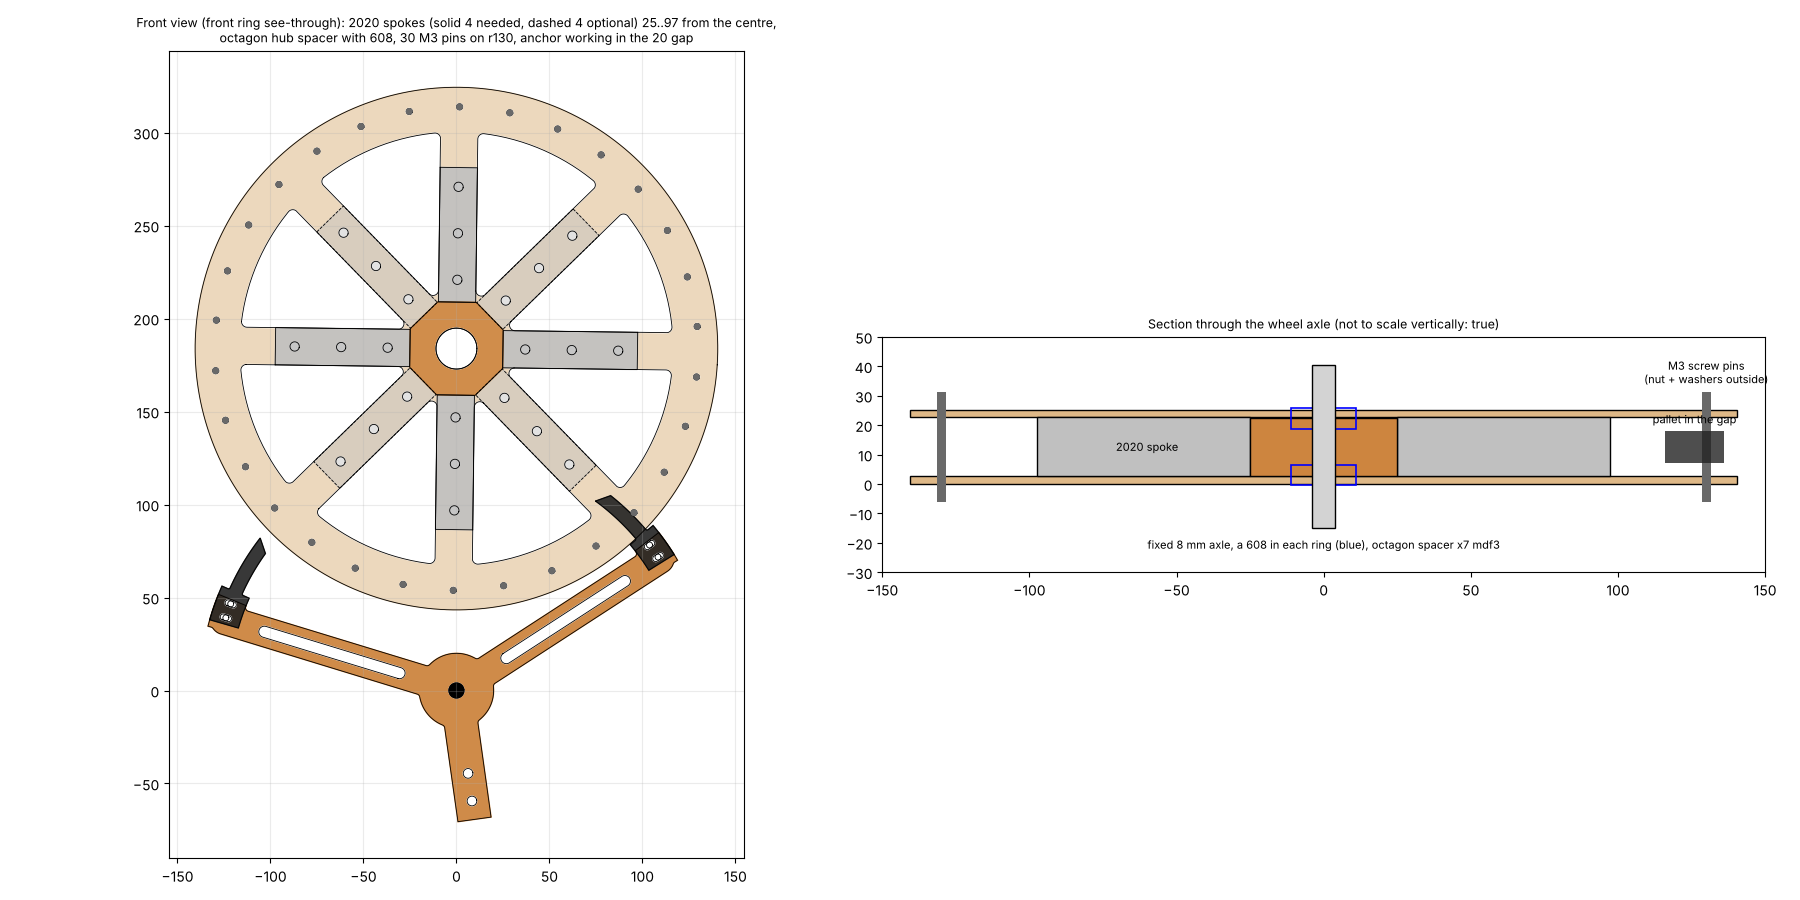
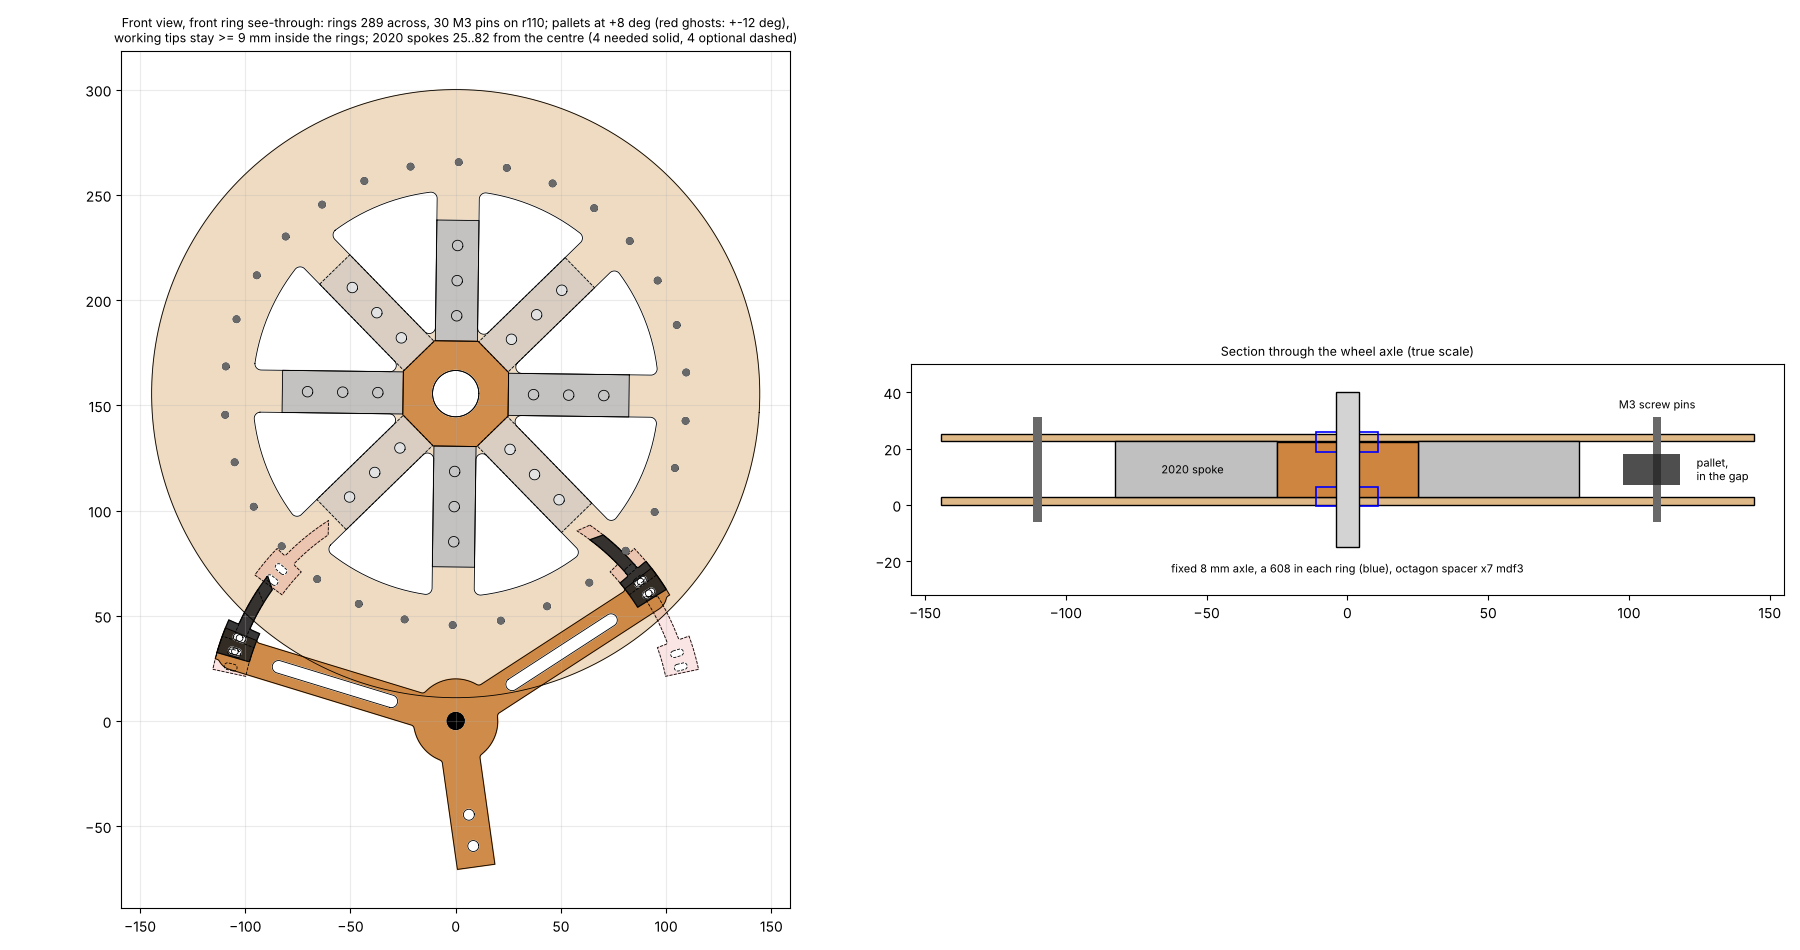
WIP pin-wheel escapement: rings out to 289 (sheet limit), pins in to r110 so the pallet tips stay inside the rings at +-12 deg
Claude-Session: https://claude.ai/code/session_01LQy87QnU21cWEAk5CN6jGY

diff --git a/marbles/clock/escapement_pin.py b/marbles/clock/escapement_pin.py
@@ -35,7 +35,7 @@ sys.path.insert(0, str(HERE.parent))
 from laser_parts import gcode  # noqa: E402
 
 N = 30                 # pins: 1 rev/min on a seconds pendulum
-R = 130.0              # pin-centre radius (wheel ~280 across: fits a 292 sheet)
+R = 110.0              # pin-centre radius: in from the rim, so the pallet tips stay >= 9 inside the rings even at +-12 deg
 PIN_D = 3.0            # pins = M3 screws spanning the two wheel rings (nut + washers), the pallets work on the shank
 PIN_HOLE = 3.3         # M3 clearance in the rings
 SPAN = 7.5             # anchor spans 7.5 pins (90 deg): the classic Graham proportion
@@ -44,14 +44,15 @@ DROP = 1.5             # free wheel degrees per beat after impulse
 KAPPA = 1.0            # lock depth (anchor degrees) a pallet already has when the other drops
 AMP = 8.0              # design swing, deg each side (the check also runs smaller and larger)
 ARM_W = 16.0           # anchor arm width (soft wood: wide)
-RIM = 9.0              # wheel rim wood outside the pin circle
+RING_R = 144.5         # ring outer radius: 289 across, the most a 292 sheet takes in one piece
+RIM = RING_R - R - 1.5  # ring wood outside the pin circle (for a 3 mm pin)
 RIM_IN = 12.0          # rim band inside the pin circle
 SPOKES = 8            # wood spokes over the 2020 beam spokes (4 at 0/90/180/270; the 45s are optional beams)
 SPOKE_W = 20.0         # = the 2020
 GAP = 20.0             # the two rings sit on opposite faces of the 2020 spokes: the anchor works in this gap
 BRG_D = 22.0           # 608 skate bearing seat (one in each ring, on a fixed 8 mm axle)
 HUB_A = 25.0           # hub = octagon, flats this far from the centre: every 2020 spoke (8 x 20 wide) butts a flat
-SPOKE_M5 = (37.0, 62.0, 87.0)    # M5 into T-nuts in each spoke's face (the beams end at ~97: the anchor sweeps beyond)
+SPOKE_M5 = None        # M5 into T-nuts along each spoke: spread over the beam's length (set from beam_reach())
 ARBOR_D = 8.1          # 8 mm anchor arbor
 PAL_BOLT = 3.2         # M3 pallet bolts
 PAL_ADJ = 3.0          # pallet slot length (radial adjustment)
@@ -146,8 +147,33 @@ def wheel():
     g = unary_union([rim, hub] + spokes).buffer(3).buffer(-3)
     holes = [Point(polar(R, 90 - k * PITCH, W)).buffer(PIN_HOLE / 2, 32) for k in range(N)]
     holes.append(Point(W).buffer(BRG_D / 2, 64))
-    holes += [Point(polar(r, i * 360 / SPOKES, W)).buffer(2.5, 32) for i in range(SPOKES) for r in SPOKE_M5]
+    holes += [Point(polar(r, i * 360 / SPOKES, W)).buffer(2.5, 32) for i in range(SPOKES) for r in spoke_m5()]
     return g.difference(unary_union(holes))
+
+
+def spoke_m5():
+    """3 M5 per spoke, from 12 past the hub flat to 12 short of the beam's end"""
+    global SPOKE_M5
+    if SPOKE_M5 is None:
+        a, b = HUB_A + 12, beam_reach() - 3 - 12
+        SPOKE_M5 = tuple(round(a + (b - a) * i / 2, 1) for i in range(3))
+    return SPOKE_M5
+
+
+def tip_margin(amp_max=12.0):
+    """how far inside the rings' edge the pallets' working tips (both ends of each impulse face, where a pin is
+    caught and released) stay over the whole swing. While a pin is locked the contact sits on that pin, at R."""
+    h, k = LIFT / 2, KAPPA / 2
+    ro, ri = R0 + WI / 2, R0 - WI / 2
+    a_tip, b_tip = 45 - h + k, 135 + h - k
+    pts = [polar(ro - PR, a_tip), polar(ri - PR, a_tip + LIFT), polar(ri + PR, b_tip), polar(ro + PR, b_tip - LIFT)]
+    far = 0.0
+    for i in range(25):
+        th = amp_max * (i / 12 - 1)
+        for p in pts:
+            q = affinity.rotate(Point(p), th, origin=(0, 0))
+            far = max(far, math.dist(W, (q.x, q.y)))
+    return RING_R - far
 
 
 def hub_spacer():
@@ -265,11 +291,13 @@ def main():
     body, eb, xb, _ = anchor()
     reach = beam_reach()
     corner = 10 / math.tan(math.radians(22.5))          # a 45-degree beam's square end meets its neighbours here
+    print(f"rings {2 * RING_R:g} across: the pallets' working tips stay {tip_margin():.1f} inside the rings' edge over a +-12 deg swing; "
+          f"ring band outside the pin circle {RING_R - R:.1f}")
     print(f"2020 spokes: inner end at the hub flat ({HUB_A:g} from the centre), outer end within {reach - 3:.1f} "
           f"(the anchor comes to {reach:.1f} at a +-12 deg swing): beam length {reach - 3 - HUB_A:.0f}; a 45-deg beam "
           f"cut square needs its inner end at {corner + 0.5:.1f} if there is no octagon spacer")
     emit("esc_pin_ring", wheel(), a.wood,
-         [f"one of 2 rings: {N} M3 holes on r {R:g}, 608 seat d{BRG_D:g}, 8 spokes 20 wide over the 2020s (M5 at {SPOKE_M5})",
+         [f"one of 2 rings: {N} M3 holes on r {R:g}, 608 seat d{BRG_D:g}, 8 spokes 20 wide over the 2020s (M5 at {spoke_m5()})",
           f"rings on opposite faces of the 2020 spokes, {GAP:g} apart; M3 x {GAP + 2 * 2.63 + 8:.0f}+ screws = the pins"], a.out, 2)
     emit("esc_pin_hub_spacer", hub_spacer(), "mdf3",
          [f"octagon, flats {HUB_A:g} from the centre, 608 hole d{BRG_D:g}: cut 7 for a {GAP:g} gap (7 x 2.82 = 19.74)"], a.out, 7)

diff --git a/marbles/clock/escapement_pin_draw.py b/marbles/clock/escapement_pin_draw.py
@@ -1,0 +1,74 @@
+#!/usr/bin/env python3
+"""Drawing for escapement_pin.py: front view (front ring see-through) + a section through the wheel axle."""
+import sys
+from pathlib import Path
+HERE = Path(__file__).resolve().parent
+sys.path.insert(0, str(HERE))
+import escapement_pin as E  # noqa: E402
+import matplotlib  # noqa: E402
+matplotlib.use("Agg")
+import matplotlib.pyplot as plt  # noqa: E402
+from shapely import affinity  # noqa: E402
+from shapely.geometry import LineString  # noqa: E402
+from shapely.ops import unary_union  # noqa: E402
+
+
+def draw(ax, g, c, a=1.0, ls="-"):
+    for p in getattr(g, "geoms", [g]):
+        ax.fill(*p.exterior.xy, color=c, alpha=a)
+        ax.plot(*p.exterior.xy, ls, color="k", lw=.6)
+        for r in p.interiors:
+            ax.fill(*r.xy, color="w")
+            ax.plot(*r.xy, ls, color="k", lw=.6)
+
+
+body, eb, xb, (e, x) = E.anchor()
+pal = unary_union([e, x])
+th, phi = E.AMP, 0.0
+while E.pins(phi).intersection(affinity.rotate(pal, th, origin=(0, 0))).area < 1e-4 and phi < 12:
+    phi += 0.05
+phi -= 0.05
+reach = E.beam_reach() - 3
+fig = plt.figure(figsize=(18, 9.5))
+ax = fig.add_subplot(1, 2, 1)
+draw(ax, affinity.rotate(E.wheel(), -phi, origin=E.W), "burlywood", .5)
+for i in range(8):
+    a = i * 45 - phi
+    b = LineString([E.polar(E.HUB_A, a, E.W), E.polar(reach, a, E.W)]).buffer(10, cap_style=2)
+    draw(ax, b, "silver", .9 if i % 2 == 0 else .45, "-" if i % 2 == 0 else "--")
+draw(ax, affinity.translate(affinity.rotate(E.hub_spacer(), -phi, origin=(0, 0)), *E.W), "peru", .9)
+for k in range(E.N):
+    ax.add_patch(plt.Circle(E.polar(E.R, 90 - k * E.PITCH - phi, E.W), E.PR, color="dimgray", zorder=4))
+for t, c in ((-12, "tab:red"), (12, "tab:red")):
+    draw(ax, affinity.rotate(unary_union([eb, xb]), t, origin=(0, 0)), c, .12, "--")
+draw(ax, affinity.rotate(body, th, origin=(0, 0)), "peru", .95)
+draw(ax, affinity.rotate(eb, th, origin=(0, 0)), "#222", .9)
+draw(ax, affinity.rotate(xb, th, origin=(0, 0)), "#222", .9)
+ax.add_patch(plt.Circle((0, 0), 4, color="k"))
+ax.set_aspect("equal")
+ax.grid(alpha=.25)
+ax.set_title(f"Front view, front ring see-through: rings {2 * E.RING_R:g} across, {E.N} M3 pins on r{E.R:g}; pallets at +{th:g} deg "
+             f"(red ghosts: +-12 deg),\nworking tips stay >= {E.tip_margin():.0f} mm inside the rings; 2020 spokes "
+             f"{E.HUB_A:g}..{reach:.0f} from the centre (4 needed solid, 4 optional dashed)", fontsize=9)
+ax2 = fig.add_subplot(1, 2, 2)
+T = 2.63
+for y0 in (0, T + E.GAP):
+    ax2.add_patch(plt.Rectangle((-E.RING_R, y0), 2 * E.RING_R, T, fc="burlywood", ec="k"))
+for sx in (-1, 1):
+    ax2.add_patch(plt.Rectangle((E.HUB_A if sx > 0 else -reach, T), reach - E.HUB_A, E.GAP, fc="silver", ec="k"))
+    ax2.add_patch(plt.Rectangle((sx * E.R - E.PR, -6), E.PIN_D, 2 * T + E.GAP + 12, fc="dimgray"))
+ax2.add_patch(plt.Rectangle((-E.HUB_A, T), 2 * E.HUB_A, 7 * 2.82, fc="peru", ec="k"))
+for y0 in (-0.5, 2 * T + E.GAP - 6.5):
+    ax2.add_patch(plt.Rectangle((-11, y0), 22, 7, fc="none", ec="b", lw=1.2))
+ax2.add_patch(plt.Rectangle((-4, -15), 8, 2 * T + E.GAP + 30, fc="lightgray", ec="k"))
+ax2.add_patch(plt.Rectangle((E.R - 12, T + E.GAP / 2 - 5.5), 20, 11, fc="#222", alpha=.8))
+ax2.text(E.R + 14, T + E.GAP / 2, "pallet,\nin the gap", va="center", fontsize=8)
+ax2.text(0, -24, "fixed 8 mm axle, a 608 in each ring (blue), octagon spacer x7 mdf3", ha="center", fontsize=8)
+ax2.text(E.R, 2 * T + E.GAP + 9, "M3 screw pins", ha="center", fontsize=8)
+ax2.text(-55, T + E.GAP / 2, "2020 spoke", ha="center", va="center", fontsize=8)
+ax2.set_xlim(-155, 155)
+ax2.set_ylim(-32, 50)
+ax2.set_aspect("equal")
+ax2.set_title("Section through the wheel axle (true scale)", fontsize=9)
+plt.tight_layout()
+plt.savefig(HERE / "escapement_pin.png", dpi=100)
